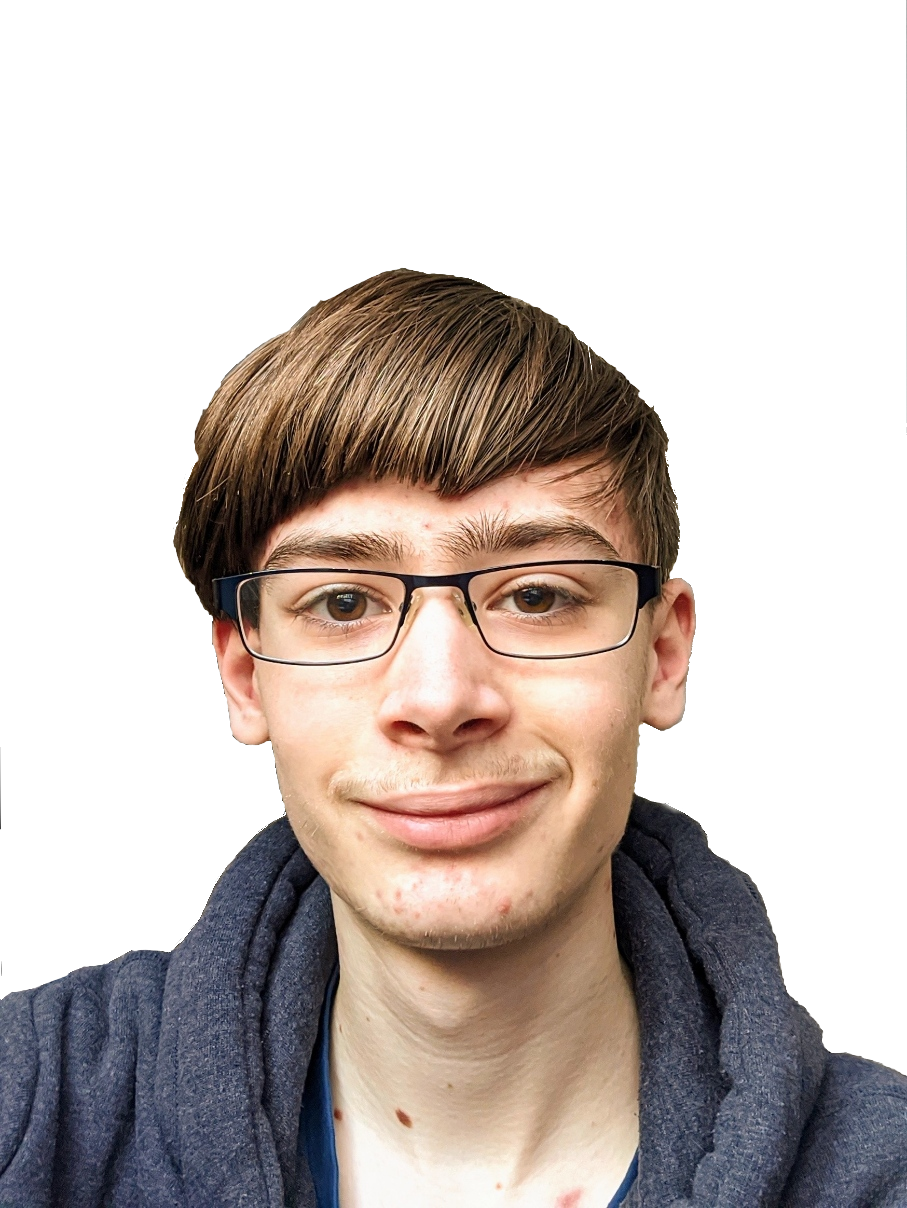
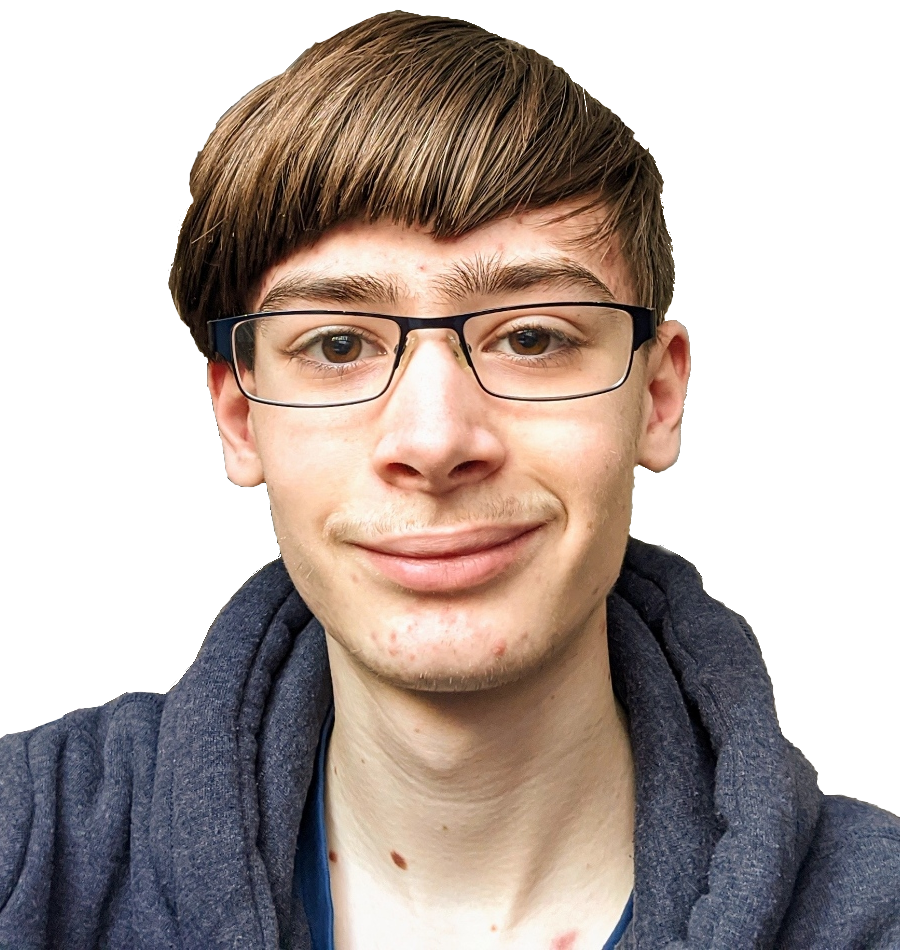
feat: title pane done

diff --git a/src/components/TitlePane/index.tsx b/src/components/TitlePane/index.tsx
@@ -9,7 +9,7 @@ import NavBar from './NavBar';
 const TitlePane: NextPage = () => {
   const isMobile = ['base', 'sm'].includes(useBreakpoint());
   return (
-    <PaneLayout bgGradient="linear-gradient(180deg, #C8C4C4 0%, rgba(255, 255, 255, 0.50) 50%, rgba(155, 154, 154, 0.80) 100%);">
+    <PaneLayout position="relative" bgGradient="linear-gradient(180deg, #C8C4C4 0%, rgba(255, 255, 255, 0.50) 50%, rgba(155, 154, 154, 0.80) 100%);">
       <NavBar />
       <Box pos="absolute" right="10vw" top="calc(100px + 10vh)" maxW="900px" textAlign="right" zIndex={2}>
         <Heading style={{ textTransform: 'uppercase' }} fontSize="calc(48px + 3vw)">Nicholas Gregory</Heading>
@@ -19,9 +19,8 @@ const TitlePane: NextPage = () => {
         </Heading>
         <Button isActive colorScheme="purple" mt={5} size="lg">What can Nick offer me?</Button>
       </Box>
-      {/* TODO: CHANGE IMAGE TO FILL A RESPONSIVE BOX */}
-      <Box opacity={isMobile ? '0.7' : '1.0'}>
-        <Image width={470} height={580} src="/face.png" />
+      <Box opacity={isMobile ? '0.7' : '1.0'} pos="absolute" bottom="-5px" maxW="70%">
+        <Image layout="intrinsic" src="/face.png" width={600} height={633} />
       </Box>
     </PaneLayout>
   );
